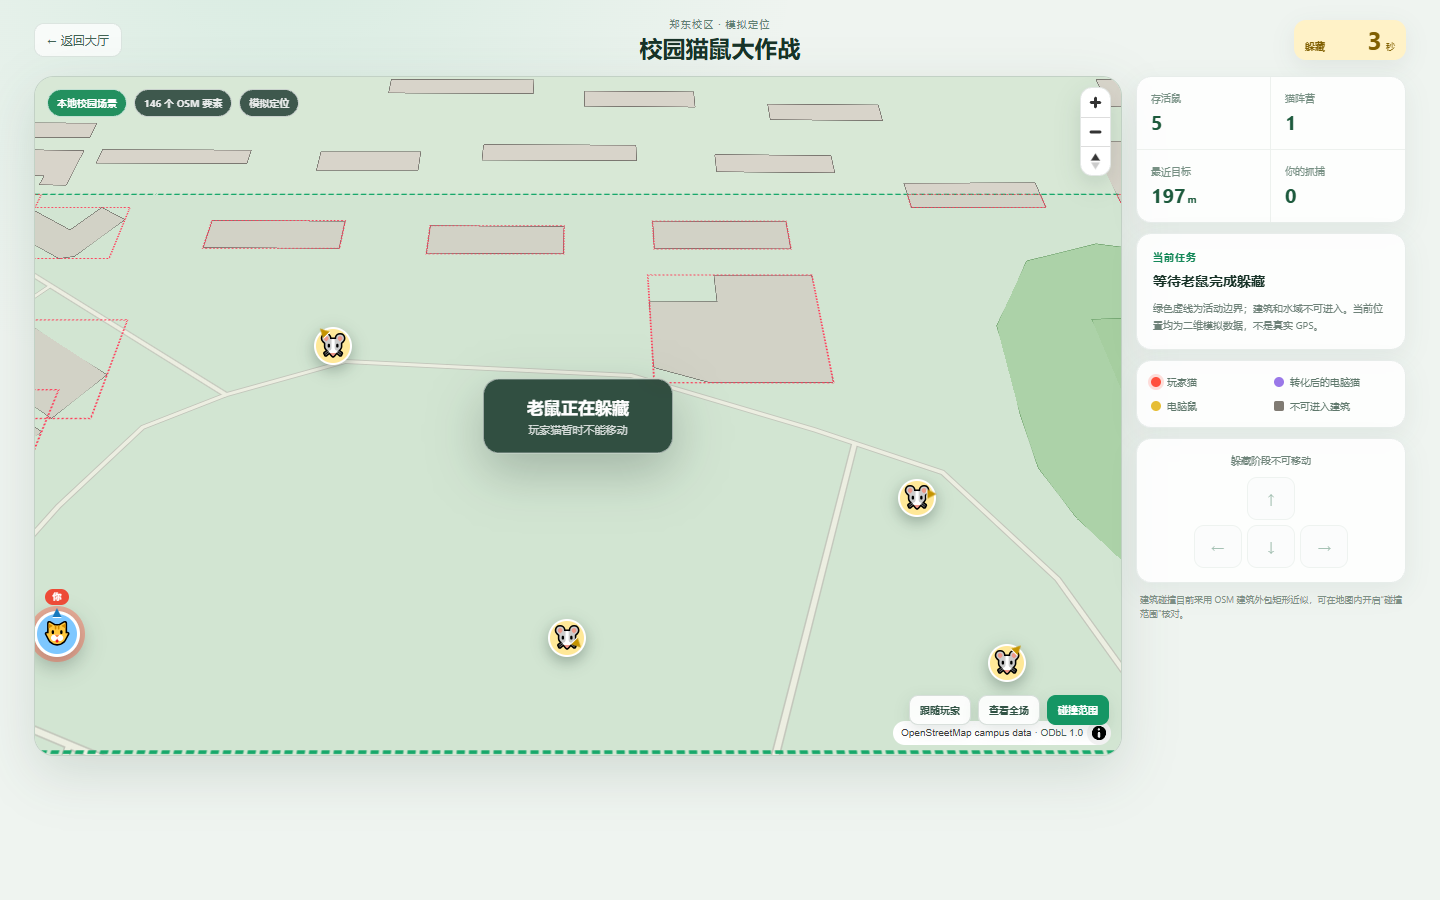
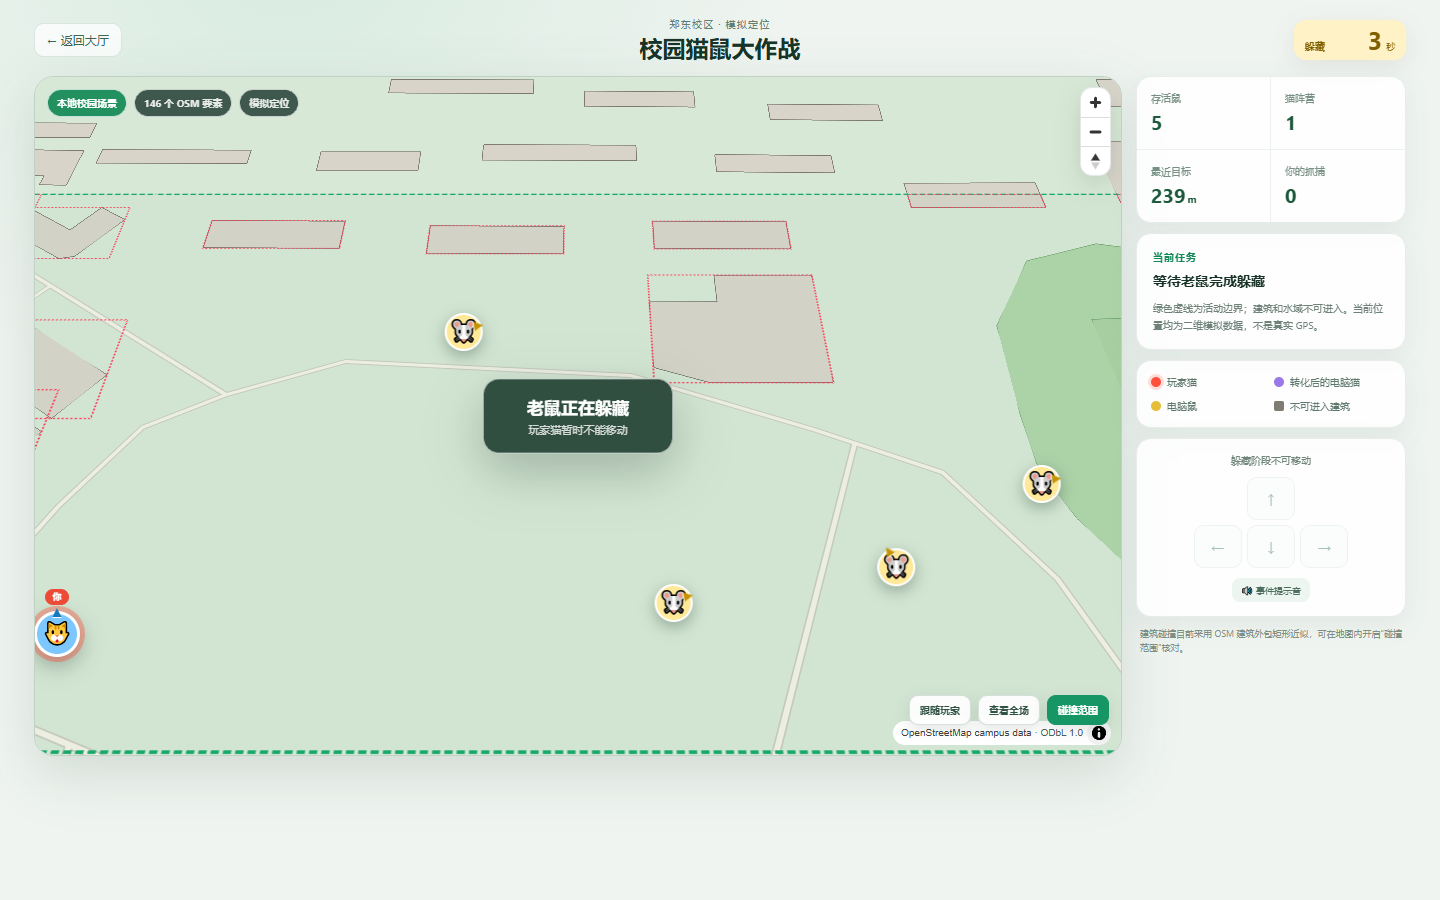
test(game): complete catmouse v2 acceptance

diff --git a/src/game/INTEGRATION.md b/src/game/INTEGRATION.md
@@ -6,7 +6,7 @@
 - 地图逻辑采用约 `763.4 × 306.1` 米的本地二维模拟坐标，左上角是 `(0, 0)`，`x` 向东、`y` 向南。
 - 1 只玩家猫追捕 5 只电脑鼠。
 - 躲藏阶段 5 秒，猫不能移动，电脑鼠自动分散。
-- 追捕阶段 30 秒，猫鼠距离小于或等于 15 个虚拟米时自动抓捕。
+- 追捕阶段 30 秒，玩家猫鼠距离小于或等于 15 个模拟米时提示“模拟触碰确认”；电脑猫在范围内自动协助抓捕。
 - 被抓的鼠转为电脑猫，从下一次 AI 更新开始协助追捕。
 - 全部鼠被抓时猫方获胜；追捕倒计时结束仍有鼠存活时鼠方获胜。
 - OSM 建筑对应的矩形近似障碍不可进入；其余区域可移动。
@@ -196,7 +196,7 @@ npm run build
 node scripts/verify-campus-map.mjs http://127.0.0.1:4173/game/play
 ```
 
-截至 2026-10-14，共 27 项测试通过：原有 24 项游戏规则测试全部保留，新增 3 项坐标范围、经纬度往返和坐标顺序测试。浏览器验证脚本还会检查本地地图画布、6 个角色、MapLibre 控件、OSM 署名、缩放、全场视野和碰撞调试层。
+截至 2026-10-14，共 47 项测试通过：原有规则和坐标测试全部保留，并覆盖连续运动、扫掠碰撞、A*、NPC 路径、抓捕确认、事件和结算快照。浏览器验证脚本还会检查本地地图画布、6 个角色、MapLibre 控件、OSM 署名、连续键盘移动、断网保持、移动端布局和结算恢复。
 
 ## 2.0 连续运动与 NPC 寻路
 
@@ -214,4 +214,4 @@ node scripts/verify-campus-map.mjs http://127.0.0.1:4173/game/play
 - NPC 的危险评估是确定性启发式，不含协作包围、视野或体力系统。
 - OSM 数据覆盖反映提取时的公开地图状态，可能与校园现场细节存在差异；需要通过生成脚本人工刷新和复核。
 - 没有房间、账号、服务器、数据库或实时多人同步。
-- 模块级旧接口和传入状态的纯函数接口仍同时保留，本轮未统一，避免破坏现有页面兼容性。
+- 模块级旧接口仍作为兼容层保留；2.0 游戏页面已经统一为显式 `GameState` 数据流。

diff --git a/docs/CAT_MOUSE_DEMO.md b/docs/CAT_MOUSE_DEMO.md
@@ -1,0 +1,40 @@
+# 校园猫鼠大作战 2.0 演示说明
+
+## 本地运行
+
+```powershell
+npm install
+npm run dev
+```
+
+打开终端显示的地址，进入“校园猫鼠大作战”。所有角色位置都标注为模拟定位数据，不代表真实 GPS。
+
+## 60–90 秒演示流程
+
+1. 在大厅说明规则：1 只玩家猫、5 只电脑鼠、5 秒躲藏、30 秒追捕。
+2. 进入地图，展示本地校园建筑、道路、绿化、水域、活动边界与 OSM 署名。
+3. 使用地图控件缩放、旋转和倾斜，再点击“查看全场”和“跟随玩家”。
+4. 追捕开始后按住方向键或 WASD 连续移动；移动端按住方向按钮。
+5. 观察电脑鼠沿演示路网逃跑；被抓后的电脑鼠会转为电脑猫并协助追逐。
+6. 靠近电脑鼠后点击“模拟触碰确认”，展示抓捕反馈、阵营转换和计数变化。
+7. 等待全部抓获或倒计时结束，展示结算页，再点击“再来一局”。
+
+## 自动验收
+
+先启动生产预览，再在另一个终端运行：
+
+```powershell
+npm run test:game
+npm run build
+npm run preview -- --host 127.0.0.1
+npm run verify:game
+```
+
+浏览器脚本会输出 `artifacts/campus-map/verification.json`，并生成桌面地图、碰撞范围、连续移动、移动端和结算页截图。
+
+## 数据与许可
+
+- 校园场景来自 OpenStreetMap，本地打包为 GeoJSON，页面保留 `© OpenStreetMap contributors · ODbL 1.0` 署名。
+- 运行时不请求在线瓦片；网络断开后，已加载的应用仍可显示校园场景和角色。
+- 路网是活动区内 OSM 可步行道路与人工核验演示通行线的混合数据，不是官方或实时导航数据。
+- 建筑碰撞仍使用建筑/水域外包矩形近似，不代表真实建筑轮廓。

diff --git a/docs/CAT_MOUSE_V2_REPORT.md b/docs/CAT_MOUSE_V2_REPORT.md
@@ -1,0 +1,24 @@
+# 校园猫鼠大作战 2.0 阶段报告
+
+## 代码改了什么
+
+- 保留旧引擎和 24 项原有规则测试，在兼容层外增加 30 Hz 固定步长模拟器。
+- 玩家支持方向键、WASD 和触屏方向按钮持续移动；整段路径使用扫掠碰撞防止高速穿楼。
+- NPC 使用本地 OSM 可步行道路与人工核验演示通行线组成的 42 节点路网，通过 A* 追逐或逃跑。
+- 玩家抓捕改为“进入范围 → 模拟触碰确认 → 阵营转换”；增加事件反馈和声音开关。
+- 结算使用两小时有效的 `sessionStorage` 摘要，跨路由可恢复，但不保存精细位置轨迹。
+- 新增统一测试、生产浏览器验收、移动端/离线/结算截图和演示说明。
+
+## 运行效果是什么
+
+- MapLibre 本地校园场景继续作为页面主体，建筑、道路、绿化、水域、活动边界和角色无需在线瓦片即可显示。
+- 地图支持缩放、旋转、倾斜、镜头跟随和全场视野；玩家与 NPC 都连续移动。
+- 自动验收显示 6 个角色、OSM 署名和地图控件正常；断网后场景不消失；移动端无横向溢出。
+- 47/47 项测试通过，Vite 生产构建通过，浏览器运行错误为 0。
+
+## 还有什么问题
+
+- 碰撞仍是建筑/水域外包矩形，不是真实多边形轮廓。
+- 演示通行线未做现场核验，不能作为真实校园导航依据。
+- MapLibre 使游戏页 chunk 约 1.08 MB，首次载入仍有优化空间。
+- 当前没有 PWA 首次离线安装、真实 GPS、后端或多人联机。

diff --git a/docs/CAT_MOUSE_PROGRESS.md b/docs/CAT_MOUSE_PROGRESS.md
@@ -48,8 +48,23 @@
 - [x] 结算快照不保存角色精细位置或移动轨迹
 - 验证：47/47 测试、Vite 构建、生产页面连续移动、浏览器零运行错误
 
-## Phase 5：总体验收（进行中）
+## Phase 5：总体验收（完成）
 
-- [ ] 全量测试和生产构建
-- [ ] 桌面端、移动端、离线运行验证
-- [ ] 演示流程、截图与集成说明
+- [x] `npm run test:game`：47/47 通过
+- [x] `npm run build`：通过
+- [x] 1440×900 桌面地图：1086×678 地图画布、6 个角色、3 个地图控件
+- [x] 按住方向键 0.8 秒：玩家标记可见位移 108 px
+- [x] 断网后：本地地图画布、6 个角色和 OSM 署名继续存在
+- [x] 390×844 移动端：地图高度约 523 px、方向控制可见、无横向溢出
+- [x] 会话结算恢复：鼠方胜利、3 猫、1 鼠、玩家抓捕 2 只正确显示
+- [x] 运行时外部 HTTP(S) 请求：0
+- [x] 浏览器运行错误：0
+- [x] 60–90 秒演示流程、架构和集成说明完成
+
+## 已知问题
+
+- 建筑/水体碰撞是外包矩形近似，可能比真实轮廓更保守。
+- 演示路网尚未经过校园现场逐路段核验，不是官方导航数据。
+- `GameMapView` 生产 chunk 约 1.08 MB，主要来自 MapLibre；路由已经懒加载，但后续仍可研究更细拆包。
+- 离线验收指已加载/本地服务器提供应用文件时无地图网络依赖；当前未实现 PWA 首次离线安装。
+- 本轮仍是模拟定位单机版，没有真实 GPS、服务器或多人同步。
